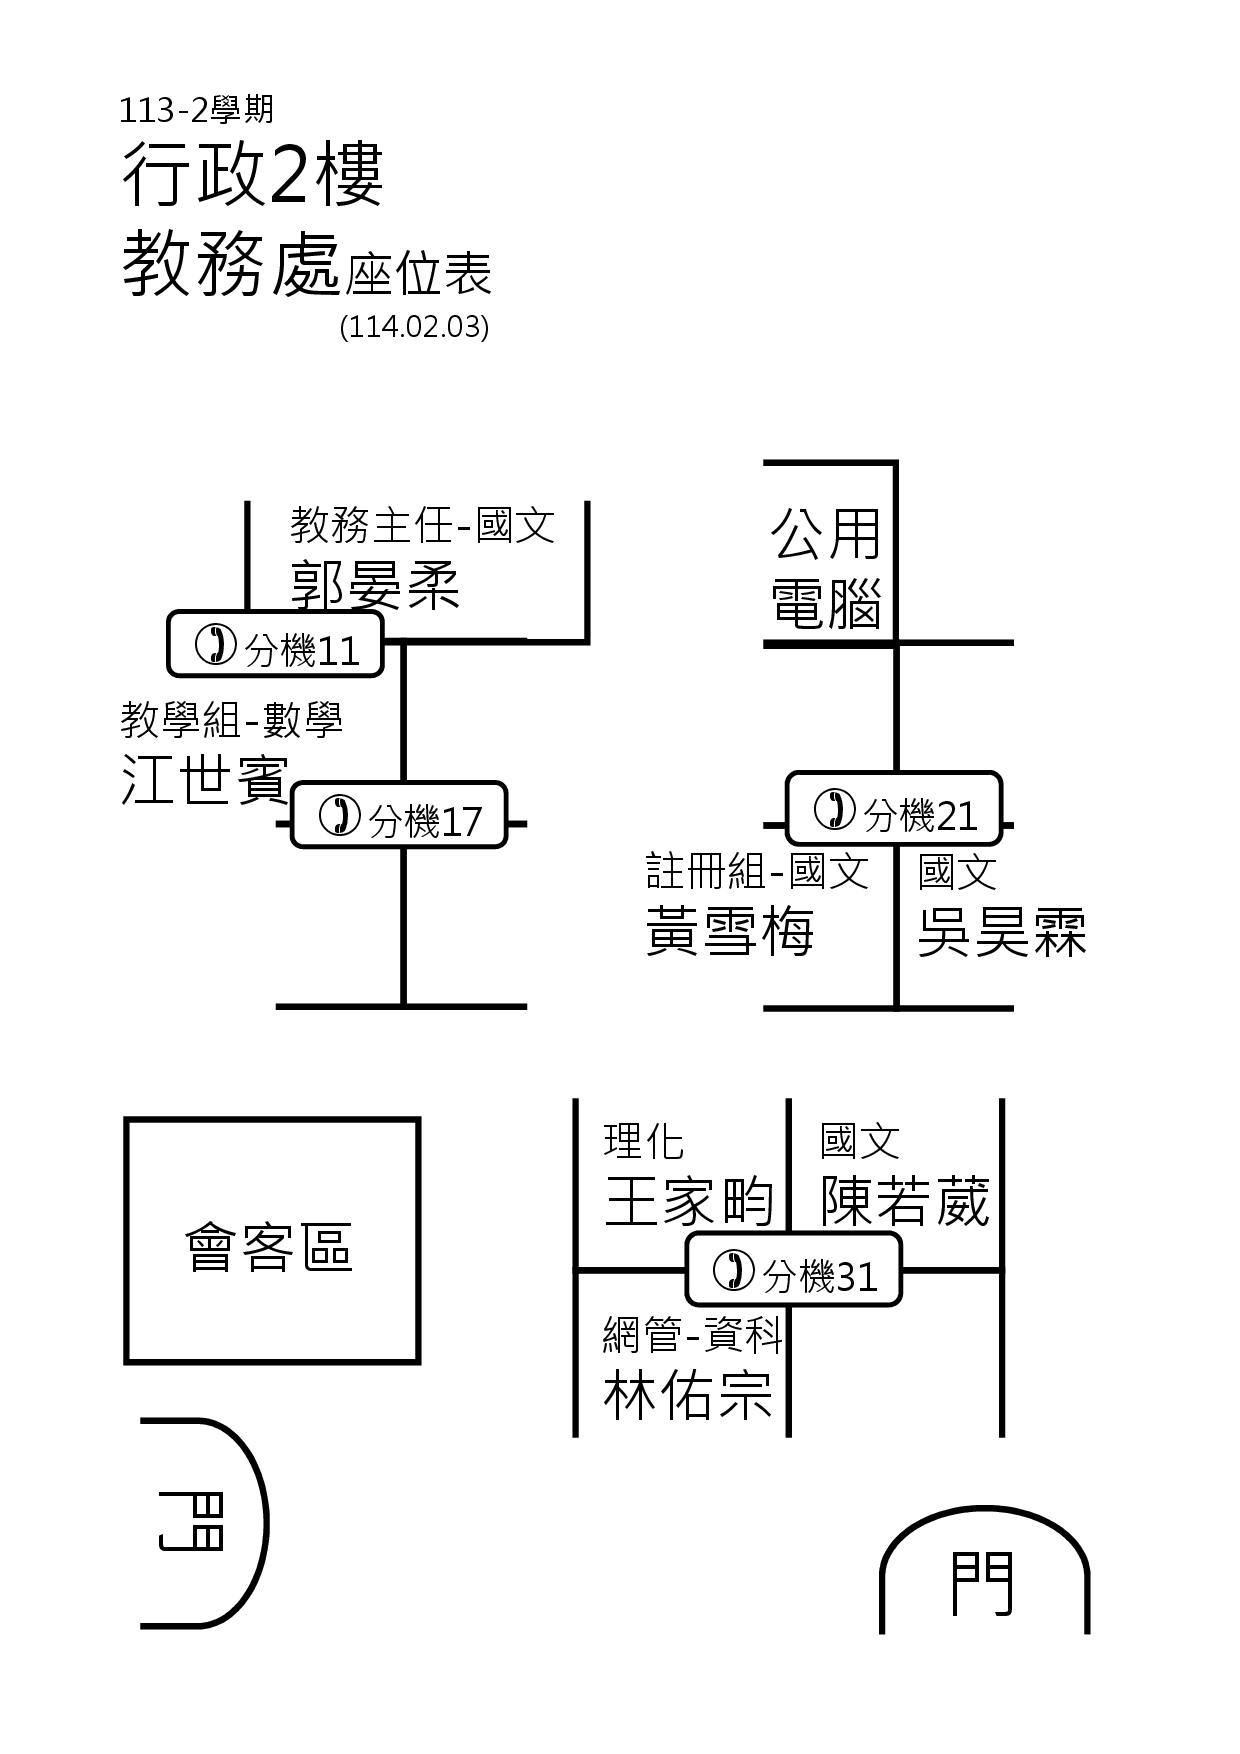
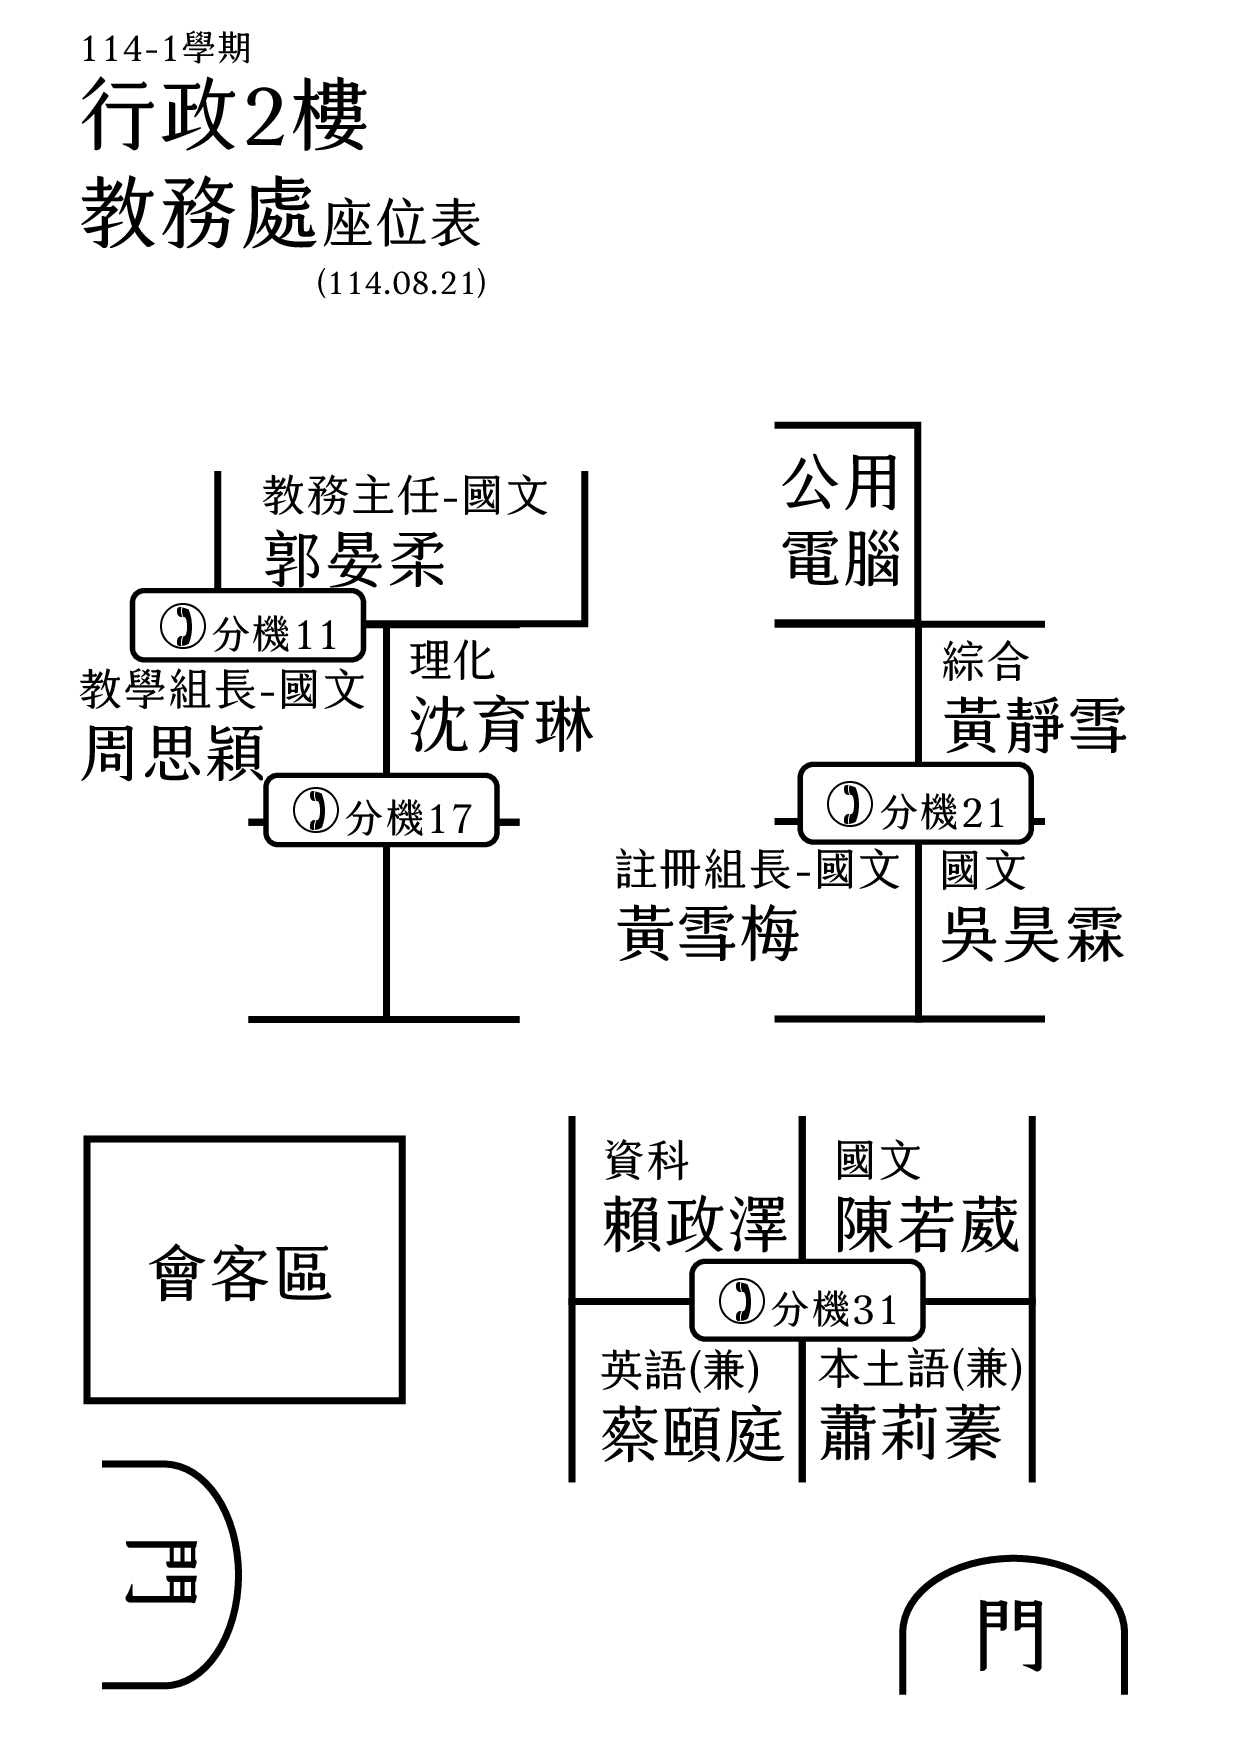
1140821-2124

diff --git a/114_1/one.html b/114_1/one.html
@@ -147,6 +147,7 @@ body.dark-mode .tab[aria-selected="true"],
 <div class="topbar" role="banner">
   <a href="https://hwjh.ylc.edu.tw/" target="_blank" rel="noopener">虎國</a>114-1
   <span class="date">(08.21)</span>
+    <a href="https://hwjh.ylc.edu.tw/News_Photo_Content.aspx?n=30281&s=334583" target="_blank" rel="noopener">新作息時間</a>｜
   <a href="phone.pdf" target="_blank" rel="noopener">分機</a>｜
   <a href="indexs.html" target="_blank" rel="noopener">座位</a>｜
   <a href="traffic_guard.pdf" target="_blank" rel="noopener">導護</a>｜
@@ -198,7 +199,7 @@ body.dark-mode .tab[aria-selected="true"],
     <li><button class="tab" role="tab" id="tab-tea-028" aria-controls="panel-tea-028" aria-selected="false" tabindex="-1">8-2麗秋</button></li>
     <li><button class="tab" role="tab" id="tab-tea-029" aria-controls="panel-tea-029" aria-selected="false" tabindex="-1">8-4詠明</button></li>
     <li><button class="tab" role="tab" id="tab-tea-030" aria-controls="panel-tea-030" aria-selected="false" tabindex="-1">信遠</button></li>
-    <li><button class="tab" role="tab" id="tab-tea-031" aria-controls="panel-tea-031" aria-selected="false" tabindex="-1">丘威達</button></li>
+    <li><button class="tab" role="tab" id="tab-tea-031" aria-controls="panel-tea-031" aria-selected="false" tabindex="-1">威達</button></li>
     <li><button class="tab" role="tab" id="tab-tea-032" aria-controls="panel-tea-032" aria-selected="false" tabindex="-1">羽彤</button></li>
     <li><button class="tab" role="tab" id="tab-tea-033" aria-controls="panel-tea-033" aria-selected="false" tabindex="-1">靜雪</button></li>
 
@@ -236,7 +237,7 @@ body.dark-mode .tab[aria-selected="true"],
     <div class="panel" role="tabpanel" id="panel-tea-004" aria-labelledby="tab-tea-004" hidden><div class="panel-inner"><img src="tea/004.png" alt=""></div></div>
     <div class="panel" role="tabpanel" id="panel-tea-005" aria-labelledby="tab-tea-005" hidden><div class="panel-inner"><img src="tea/005.png" alt=""></div></div>
     <div class="panel" role="tabpanel" id="panel-tea-006" aria-labelledby="tab-tea-006" hidden><div class="panel-inner"><img src="tea/006.png" alt=""></div></div>
-    <div class="panel" role="tabpanel" id="panel-tea-andy" aria-labelledby="tab-tea-andy" hidden><div class="panel-inner"><img src="tea/Andy.png" alt=""></div></div>
+    <div class="panel" role="tabpanel" id="panel-tea-andy" aria-labelledby="tab-tea-andy" hidden><div class="panel-inner"><img src="tea/andy.png" alt=""></div></div>
     <div class="panel" role="tabpanel" id="panel-tea-007" aria-labelledby="tab-tea-007" hidden><div class="panel-inner"><img src="tea/007.png" alt=""></div></div>
     <div class="panel" role="tabpanel" id="panel-tea-008" aria-labelledby="tab-tea-008" hidden><div class="panel-inner"><img src="tea/008.png" alt=""></div></div>
     <div class="panel" role="tabpanel" id="panel-tea-009" aria-labelledby="tab-tea-009" hidden><div class="panel-inner"><img src="tea/009.png" alt=""></div></div>

diff --git a/114_1/site.html b/114_1/site.html
@@ -15,7 +15,7 @@
 </head>
 
 <body><center>
-<p><a href="https://hwjh.ylc.edu.tw/" target="_blank">虎國</a>113-2學期查詢<span style="color:red;">(114.02.03)</span>
+<p><a href="https://hwjh.ylc.edu.tw/" target="_blank">虎國</a>114查詢<span style="color:red;">(114.08.21)</span>
 <a href="113phone.pdf" target="_blank">分機</a>｜
 <a href="indexs.html" target="_blank">座位</a>｜
 <a href="traffic_guard.pdf" target="_blank">導護</a>｜
